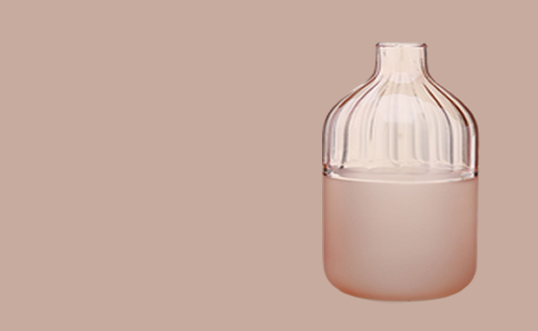
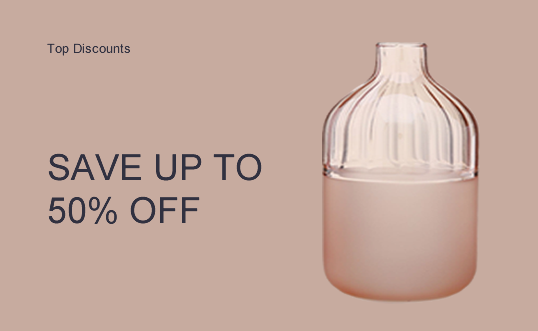
Inserção de textos nas imagens e correção dos links das mesmas; correção do espaço entre os produtos e best deal em shop

Changed region(s): [[0.0892, 0.4532, 0.5056, 0.5438], [0.0892, 0.574, 0.3866, 0.6949], [0.0892, 0.1208, 0.2379, 0.1813]]

diff --git a/src/components/Shop/Filter/Filter.js b/src/components/Shop/Filter/Filter.js
@@ -28,6 +28,7 @@ const Filter = props => {
 
     let [translateValue, setTranslateValue] = React.useState(-110)
     let [translateProductsValue, setTranslateProductsValue] = React.useState(-436)
+    let [marginT, setMarginT] = React.useState(-436)
 
     /* Slider Price */
     const sliderRef = React.useRef()
@@ -61,8 +62,9 @@ const Filter = props => {
     }
 
     const translateProducts = {
-        transform: `translateY(${translateProductsValue}px)`,   
-        transition: '.8s ease-in-out'
+        // transform: `translateY(${translateProductsValue}px)`,   
+        transition: '.8s ease-in-out',
+        marginTop: marginT+'px'
     }
 
     const openFilterHandler = () => {
@@ -70,6 +72,7 @@ const Filter = props => {
 
         translateValue < 0 ? setTranslateValue(0) : setTranslateValue(-110)
         translateProductsValue < 0 ? setTranslateProductsValue(0) : setTranslateProductsValue(-436)
+        marginT < 0 ? setMarginT(0) : setMarginT(-436)
     }
 
     const setPriceRange = values => {
@@ -357,16 +360,16 @@ const Filter = props => {
 
                 {/* </Animated> : null} */}
                 <div style={translateProducts}>
-                <Products
-                    // products={products} // => Envia o array com os produtos que serão exibidos
-                    pageLimit={12}  // => Número limite de produtos a serem mostrados inicialmente
-                    tag={tag} // => Tag que determina quais produtos serão mostrados
-                    category={category} // => Categoria dos produtos que serão mostrados
-                    valueRange={[min_value, max_value]} // => Intervalo de preço que determinará os produtos que serão mostrados
-                    productColor={productColor} // => Filtra o produto por cor
-                    offer={offer} // => Filtra os produtos por tipo de oferta
-                    order={order}
-                />
+                    <Products
+                        // products={products} // => Envia o array com os produtos que serão exibidos
+                        pageLimit={12}  // => Número limite de produtos a serem mostrados inicialmente
+                        tag={tag} // => Tag que determina quais produtos serão mostrados
+                        category={category} // => Categoria dos produtos que serão mostrados
+                        valueRange={[min_value, max_value]} // => Intervalo de preço que determinará os produtos que serão mostrados
+                        productColor={productColor} // => Filtra o produto por cor
+                        offer={offer} // => Filtra os produtos por tipo de oferta
+                        order={order}
+                    />
                 </div>
             </div>
         </Fragment>

diff --git a/src/components/MainPage/MainPageShopByRoom/MainPageShopByRoom.js b/src/components/MainPage/MainPageShopByRoom/MainPageShopByRoom.js
@@ -12,13 +12,13 @@ const mainPageShopByRoom  = props => {
             <div className="d-flex justify-content-center mt-5">
                 <div className={classes.Shop_img_container}>
                     <div style={{overflow: 'hidden', marginBottom: '8px'}}>
-                        <Link to={'/shop/bedroom'}>
+                        <Link to={'/shop/living-room'}>
                             {/* <img src={require("../../../assets/images/Shop/quadro-1-pequeno.png")} alt="img-1" /> */}
                             <img src={require("../../../assets/images/Shop/quadro-1-pequeno.jpg")} alt="img-1" />
                         </Link>
                     </div>
                     <div style={{height: '54%', overflow: 'hidden'}}>
-                        <Link to={'/shop/bathroom'}>
+                        <Link to={'/shop/kitchen'}>
                             <img src={require("../../../assets/images/Shop/quadro-3-grande.png")} alt="img-2" />
                             {/* <img src={require("../../../assets/images/Shop/quadro-3-grande.jpg")} alt="img-2" /> */}
                         </Link>
@@ -26,13 +26,13 @@ const mainPageShopByRoom  = props => {
                 </div>
                 <div className={classes.Shop_img_container}>
                     <div style={{height: '54%', overflow: 'hidden', marginBottom: '8px'}}>
-                        <Link to={'/shop/living-room'}>
+                        <Link to={'/shop/bathroom'}>
                             {/* <img src={require("../../../assets/images/Shop/quadro-2-grande.png")} alt="img-2" /> */}
                             <img src={require("../../../assets/images/Shop/quadro-2-grande.jpg")} alt="img-2" />
                         </Link>
                     </div>
                     <div style={{overflow: 'hidden'}}>
-                        <Link to={'/shop/kitchen'}>
+                        <Link to={'/shop/bedroom'}>
                             <img src={require("../../../assets/images/Shop/quadro-4-pequeno.png")} alt="img-4" />
                             {/* <img src={require("../../../assets/images/Shop/quadro-4-pequeno.jpg")} alt="img-4" /> */}
                         </Link>

diff --git a/src/components/MainPage/MainPageHeader/MainPageHeader.js b/src/components/MainPage/MainPageHeader/MainPageHeader.js
@@ -50,29 +50,29 @@ const MainPageHeader = props => {
         {
             img: require('../../../assets/images/Header/MinorSlider/imgSolo1-mainpage.png'),
             alt: 'Produto 1',
-            linkText: ['STERLING VASE GRAY', '$ 19.99'],
-            productId: 1,
+            linkText: ['PRODUTO 5', '$ 19.99'],
+            productId: 5,
             backgroundColor: 'rgb(151, 105, 105)'
         },
         {
             img: require('../../../assets/images/Header/MinorSlider/imgSolo2-mainpage.png'),
             alt: 'Produto 2',
-            linkText: ['DOG HOUSE', '$ 199.99'],
-            productId: 5,
+            linkText: ['PRODUTO 13', '$ 199.99'],
+            productId: 13,
             backgroundColor: '#fad3e0'
         },
         {
             img: require('../../../assets/images/Header/MinorSlider/imgSolo3-mainpage.png'),
             alt: 'Produto 3',
-            linkText: ['RED CHAIR', '$ 499.99'],
-            productId: 8,
+            linkText: ['PRODUTO 10', '$ 499.99'],
+            productId: 10,
             backgroundColor: '#ccc'
         },
         {
             img: require('../../../assets/images/Header/MinorSlider/imgSolo4-mainpage.png'),
             alt: 'Produto 4',
-            linkText: ['BEAUTIFUL BED', '$ 999.99'],
-            productId: 14,
+            linkText: ['PRODUTO 11', '$ 999.99'],
+            productId: 11,
             backgroundColor: 'rgb(238, 225, 183)'
         },
     ]

diff --git a/src/Data/productsData.js b/src/Data/productsData.js
@@ -3,12 +3,13 @@ const productsData = [
         _id: '16',
         name: 'Produto-16',
         price: '48.99',
-        img: require('../assets/images/ProductCard/Textile/Tapete-1/tapete-1-img-1.png'),
+        img: require('../assets/images/ProductCard/Textile/Cortina-1/cortina-1-img-1.jpg'),
         tag: 'textile',
         category: 'bathroom',
         imgsDemo: [
-            require('../assets/images/ProductCard/Textile/Tapete-1/tapete-1-img-1.png'),
-            require('../assets/images/ProductCard/Textile/Tapete-1/tapete-1-img-2.jpg'),
+            require('../assets/images/ProductCard/Textile/Cortina-1/cortina-1-img-1.jpg'),
+            require('../assets/images/ProductCard/Textile/Cortina-1/cortina-1-img-2.jpg'),
+            require('../assets/images/ProductCard/Textile/Cortina-1/cortina-1-img-3.jpg'),
         ],
         colors: ['red', 'green', 'yellow'],
         deal: false,

diff --git a/src/App.js b/src/App.js
@@ -12,7 +12,6 @@ import Products from './components/Shared/Products/Products'
 import UserLogin from './components/User/UserLogin/UserLogin'
 import UserSignUp from './components/User/UserSignUp/UserSignUp'
 import Contact from './components/Contact/Contact'
-import SearchProduct from './components/SearchProduct/SearchProduct'
 
 import ScrollToTop from './HOC/ScrollToTop'
 
@@ -93,7 +92,6 @@ function App() {
           <ScrollToTop />
             <Switch>
               <Route path="/" exact component={MainPageConfig} />
-              {/* <Route path="/search/:searchKey" exact component={SearchProduct} /> */}
               <Route path="/search/:searchKey" exact component={Products} />
               <Route path="/shop/" exact component={ShopConfig} />
               <Route path="/shop/:cat" exact component={Products} />

diff --git a/src/components/Shop/Filter/Filter.module.css b/src/components/Shop/Filter/Filter.module.css
@@ -1,6 +1,7 @@
 .Filter_container {
     width: 76%;
     margin-left: 12%;
+    margin-bottom: 80px;
 }
 
 .Filter_switch {
